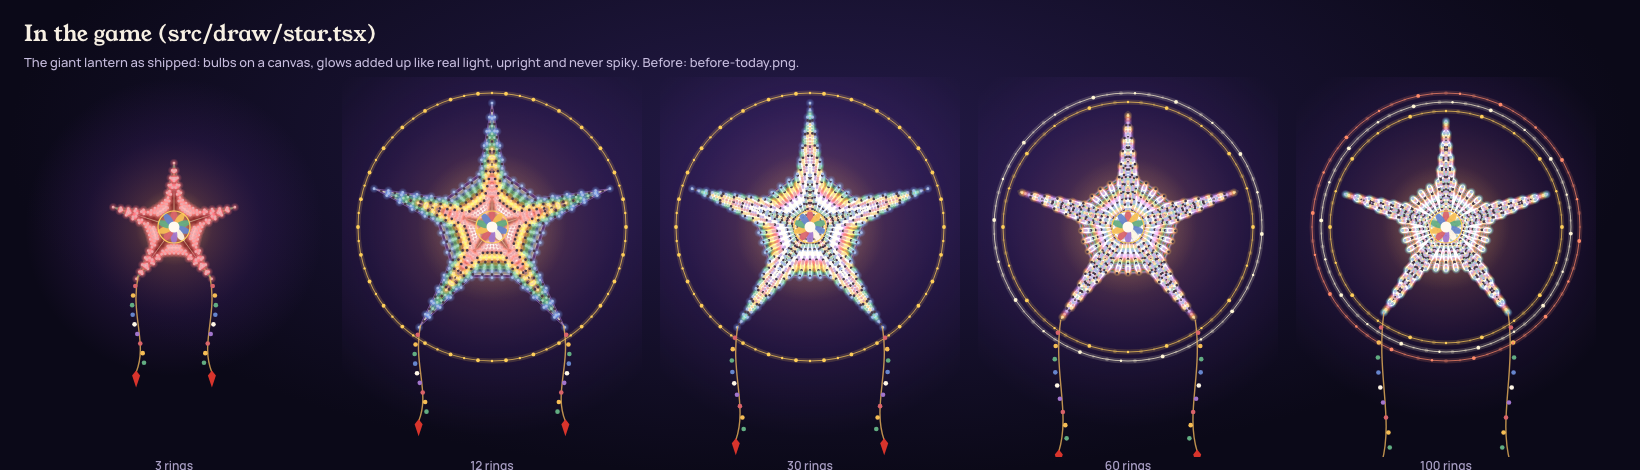
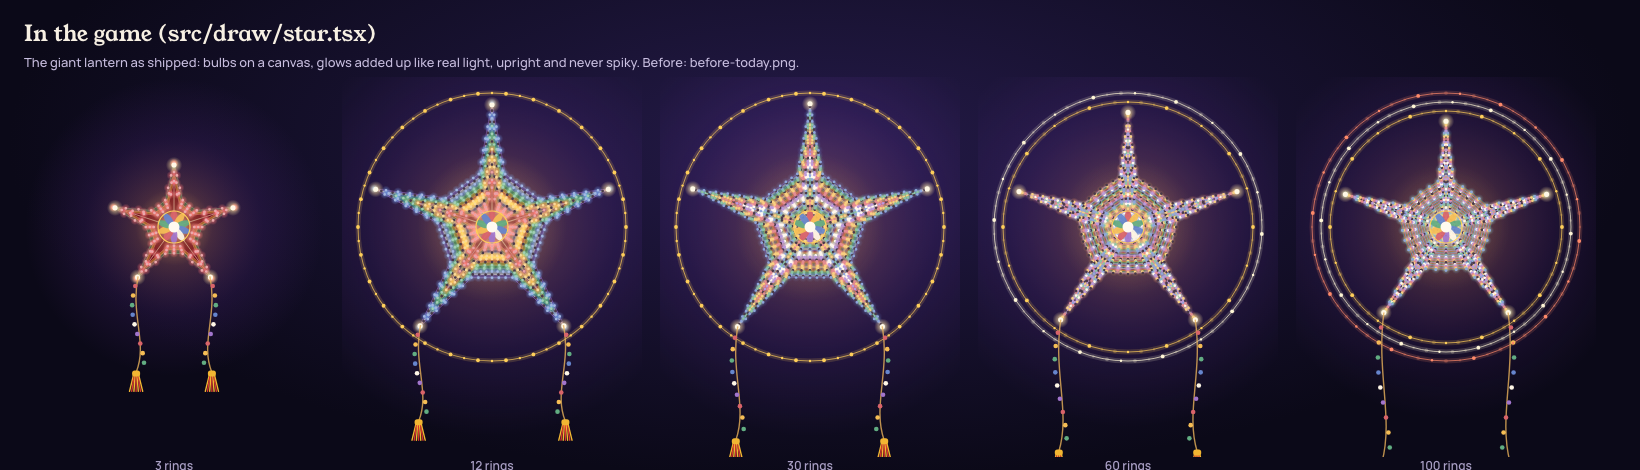
Finish the parol: clear bulbs when small, colour that survives when big, tassels
- Bulbs sit about 11 px apart on screen, so a small star has a few clear bulbs, not a fuzz; the five tips
  always shine with big warm-gold bulbs, as the old parol's did.
- As rows of bulbs pack in, their glows soften and their centres keep more colour, so the bands still read
  at 100 rings instead of adding up to white.
- Each tail of lights ends in a gold-capped tassel of red and gold fringe.
- The spinning ring is a thin frame of light waiting to lock, no longer a heavy dark star.
- The garland's small parols carry a ring of bulbs on their halo when lit, to match.

diff --git a/src/draw/star.tsx b/src/draw/star.tsx
@@ -81,31 +81,42 @@ const Lights = memo(function Lights({ size, height, rings, fit, everyK, palette,
     const count = rings.length
     // Rings closer on screen than a bulb is wide would only blur together: light every k-th ring and the outermost.
     const shown = rings.filter((ring) => ring.index === count - 1 || ring.index % everyK === everyK - 1)
-    const per = (index: number) => Math.max(1, Math.min(5, Math.round((radii(index).ro * 0.56 * fit) / 6)))
+    // Bulbs about 11 px apart on screen: a small star gets a few clear bulbs, not a fuzz of them.
+    const per = (index: number) => Math.max(1, Math.min(6, Math.round((radii(index).ro * 0.56 * fit) / 11)))
+    // How far apart the lit rows sit on screen, 0.3 (packed) to 1: as rows pack in, glows soften and bulbs keep
+    // their colour, so the bands still read at 100 rings instead of adding up to white.
+    const open = Math.max(0.3, Math.min(1, ((radii(1).ro - radii(0).ro) * fit * everyK) / 9))
     const colour = (index: number) => mixRGB(palette[Math.floor(index / 3) % palette.length], '#ffffff', 0.3)
+    const last = rings[count - 1]
+    const tips = last ? [0, 1, 2, 3, 4].map((k) => polar(radii(last.index).ro - 2, last.rotation + k * 72 - 90)) : []
     const spots = shown.map((ring) => bulbSpots(ring.index, ring.width, ring.rotation, per(ring.index)))
     ctx.globalCompositeOperation = 'lighter'
     if (!dim) {
       // The lamp in the middle: warm light across the inner rings.
       const lamp = ctx.createRadialGradient(CENTER, CENTER, 0, CENTER, CENTER, outer * 0.6)
-      lamp.addColorStop(0, 'rgba(255,241,200,0.55)')
-      lamp.addColorStop(0.5, 'rgba(255,208,138,0.18)')
+      lamp.addColorStop(0, `rgba(255,241,200,${(0.55 * (0.4 + 0.6 * open)).toFixed(2)})`)
+      lamp.addColorStop(0.5, `rgba(255,208,138,${(0.18 * (0.4 + 0.6 * open)).toFixed(2)})`)
       lamp.addColorStop(1, 'rgba(255,184,96,0)')
       ctx.fillStyle = lamp
       ctx.beginPath()
       ctx.arc(CENTER, CENTER, outer * 0.6, 0, Math.PI * 2)
       ctx.fill()
       const g = r * 3.4
+      ctx.globalAlpha = open
       shown.forEach((ring, i) => {
         if (!ring.perfect) return
         const sprite = glowOf(colour(ring.index))
         for (const [x, y] of spots[i]) ctx.drawImage(sprite, x - g, y - g, g * 2, g * 2)
       })
+      ctx.globalAlpha = 1
+      // The five tips always shine warm gold, big and clear, as a parol's tip bulbs do.
+      const tipGlow = glowOf([255, 226, 160])
+      for (const [x, y] of tips) ctx.drawImage(tipGlow, x - r * 6, y - r * 6, r * 12, r * 12)
     }
     ctx.globalCompositeOperation = 'source-over'
     shown.forEach((ring, i) => {
       const lit = !dim && ring.perfect
-      ctx.fillStyle = lit ? `rgb(${mixRGB(`#${colour(ring.index).map((c) => c.toString(16).padStart(2, '0')).join('')}`, '#ffffff', 0.45).join(',')})` : UNLIT
+      ctx.fillStyle = lit ? `rgb(${mixRGB(`#${colour(ring.index).map((c) => c.toString(16).padStart(2, '0')).join('')}`, '#ffffff', 0.15 + 0.3 * open).join(',')})` : UNLIT
       ctx.beginPath()
       for (const [x, y] of spots[i]) {
         ctx.moveTo(x + r, y)
@@ -113,6 +124,15 @@ const Lights = memo(function Lights({ size, height, rings, fit, everyK, palette,
       }
       ctx.fill()
     })
+    if (!dim) {
+      ctx.fillStyle = '#fff8e6'
+      ctx.beginPath()
+      for (const [x, y] of tips) {
+        ctx.moveTo(x + r * 1.9, y)
+        ctx.arc(x, y, r * 1.9, 0, Math.PI * 2)
+      }
+      ctx.fill()
+    }
   }, [size, height, rings, fit, everyK, palette, dim, outer])
   return <canvas ref={ref} className="star-lights" style={{ position: 'absolute', inset: 0, width: size, height }} aria-hidden="true" />
 })
@@ -270,7 +290,9 @@ export const Star = memo(function Star({ size, locks, spinning = false, spinRef,
           aria-hidden="true"
         >
           <g transform={camera}>
-            <path d={starPath(count, width, rotation)} fill={body(count)} fillOpacity="0.6" stroke="#fff1c2" strokeWidth="1.4" strokeLinejoin="round" vectorEffect="non-scaling-stroke" />
+            {/* A frame of light waiting to lock: a faint fill, a soft glow and a thin bright line. */}
+            <path d={starPath(count, width, rotation)} fill="#fff1c2" fillOpacity="0.06" stroke="#ffd98a" strokeWidth="5" strokeOpacity="0.22" strokeLinejoin="round" vectorEffect="non-scaling-stroke" />
+            <path d={starPath(count, width, rotation)} fill="none" stroke="#fff6dc" strokeWidth="1.5" strokeLinejoin="round" vectorEffect="non-scaling-stroke" />
             {[0, 1, 2, 3, 4].map((k) => {
               const ro = radii(count).ro
               const t = rotation + k * 72 - 90
@@ -352,7 +374,13 @@ export const Star = memo(function Star({ size, locks, spinning = false, spinRef,
                 const t = (k + 1) / 10
                 return <circle key={k} cx={x + dir * Math.sin(t * 5) * 6} cy={y + tailLength * t} r="2.3" fill={dim ? UNLIT : light(k % palette.length)} />
               })}
-              <path d={`M${(x + dir * 2).toFixed(1)} ${(y + tailLength - 2).toFixed(1)}l-4 5l4 12l4 -12z`} fill={dim ? '#6a3a3a' : '#d8342c'} />
+              {/* A tassel: a gold cap and a fan of red and gold fringe. */}
+              <g transform={`translate(${(x + dir * 2).toFixed(1)} ${(y + tailLength).toFixed(1)})`} opacity={dim ? 0.5 : 1}>
+                {[-3, -2, -1, 0, 1, 2, 3].map((f) => (
+                  <path key={f} d={`M${f * 0.9} 3l${f * 1.3} 16`} stroke={f % 2 ? '#f2b632' : '#d8342c'} strokeWidth="1.4" strokeLinecap="round" />
+                ))}
+                <rect x="-4" y="-2" width="8" height="6" rx="2.5" fill="#f2b632" />
+              </g>
             </g>
           ))}
       </svg>

diff --git a/src/draw/street.tsx b/src/draw/street.tsx
@@ -29,6 +29,12 @@ export const MiniParol: React.FC<{ x: number; y: number; r: number; color: strin
     <circle cx={x - r * 0.45} cy={y + r * 2.6} r={r * 0.16} fill={lit ? '#d8342c' : '#2e2846'} />
     <circle cx={x + r * 0.45} cy={y + r * 2.6} r={r * 0.16} fill={lit ? '#d8342c' : '#2e2846'} />
     <circle cx={x} cy={y} r={r * 1.18} fill="none" stroke={lit ? '#8a6a3a' : '#3a3150'} strokeWidth="0.8" />
+    {/* Lit, its halo carries a ring of bulbs, like the big parol's. */}
+    {lit &&
+      Array.from({ length: 10 }, (_, k) => {
+        const a = (k * 36 - 90) * (Math.PI / 180);
+        return <circle key={k} cx={x + Math.cos(a) * r * 1.18} cy={y + Math.sin(a) * r * 1.18} r={r * 0.12} fill={k % 2 ? '#fff3d0' : '#ffcf5a'} />;
+      })}
     <path d={`M${starPoints(x, y, r)}Z`} fill={lit ? color : '#221c3a'} stroke={lit ? '#5b3a1c' : '#3a3150'} strokeWidth="0.7" />
     <path d={`M${starPoints(x, y, r * 0.62)}Z`} fill={lit ? '#fff3d0' : '#2a2346'} opacity={lit ? 0.55 : 1} />
     <circle cx={x} cy={y} r={r * 0.24} fill={lit ? '#fffaf0' : '#3a3150'} />
